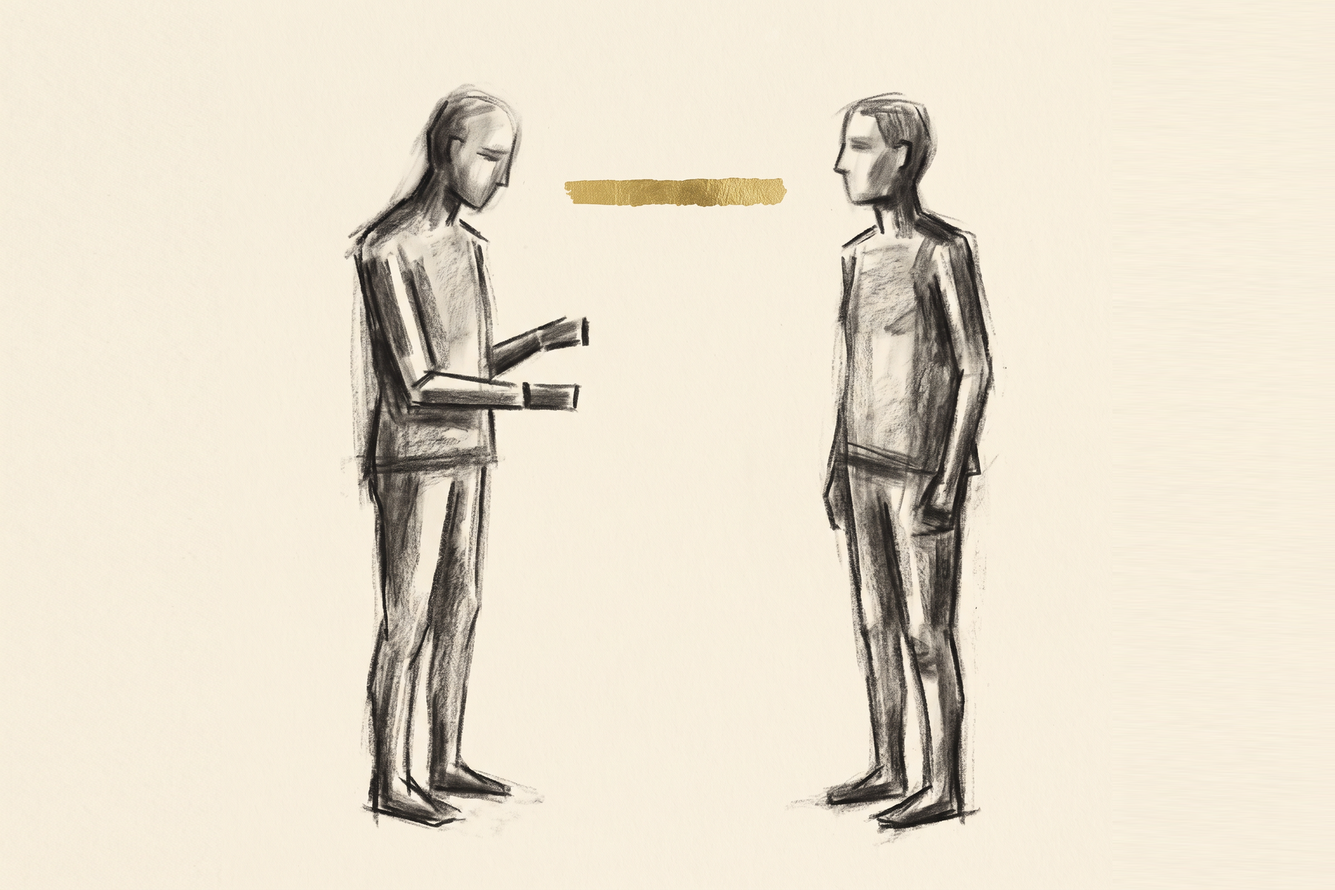
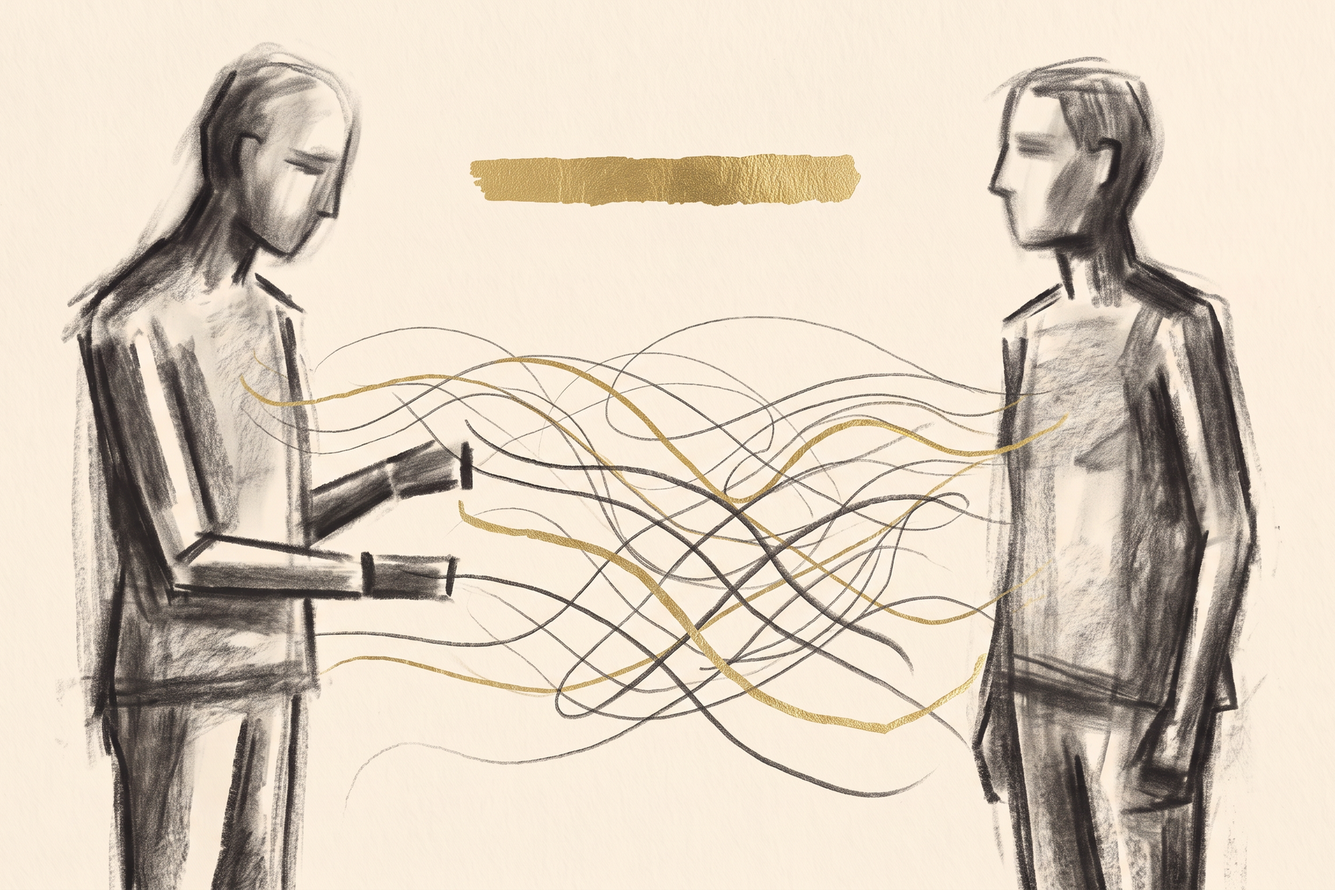
feat(home): replace theme 01 tile with the tangled-lines drawing

diff --git a/SESSION-HANDOFF.md b/SESSION-HANDOFF.md
@@ -111,9 +111,11 @@ Whether `d5ff165` and the handoff commit after it are pushed: check `git status 
   headline). Fraunces + Inter site-wide. Footer in-flow, UT lockup left, short credit right
   (`_includes/footer.liquid`).
 - **Theme tiles: three of four are real drawings** (each 1800×1200, square Nano Banana source
-  padded to 3:2 by stretching only clean paper margins):
-  01 `coordination.png`, 02 `in-the-wild.png`, 03 `computation.png` (abstract charcoal lattice,
-  one gold stroke; added session 5). **04 people-and-machines is still the CSS placeholder.**
+  padded to 3:2 by stretching only clean paper margins, or center-cropped when wider than 3:2):
+  01 `coordination.png` (replaced session 5 with a landscape source, two figures joined by
+  tangled charcoal and gold lines; center-cropped to 3:2, no padding; v1 kept in
+  `Art-Direction/generated/superseded/`), 02 `in-the-wild.png`, 03 `computation.png` (abstract
+  charcoal lattice, one gold stroke; added session 5). **04 people-and-machines is still the CSS placeholder.**
 
 **People page** (`_pages/people.md` + `_data/people.yml`)
 - Sections: Lab Director · **Lab Manager (Farhana Anisha, added session 5)** · Graduate Students
